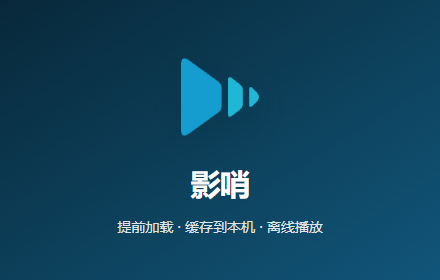
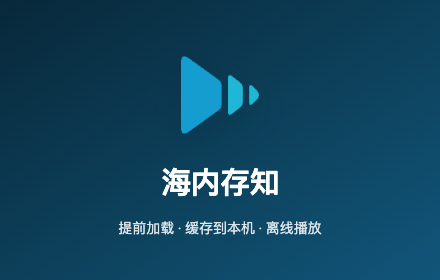
chore: rename app to haineicunzhi
改了什么: 扩展由「影哨」更名为「海内存知」。替换 manifest name/default_title、弹窗与离线页标题、隐私页、控制台日志前缀、徽标 fallback 标题、图标 SVG 内嵌标题、热更新启动文案、商店素材模板与重新生成的商店图、README（加题记「海内存知己，天涯若比邻」）、技术文档、store/listing 0.1 命名说明；npm 包名与发布产物改为 haineicunzhi(-<version>.zip)，发布校验与 store-compliance 坏样本同步；AGENTS.md 副本随父级权威副本重新生成（项目名、目录 bilibili-buffer-extension/、zip 命名）。版本 2.12.1 → 2.12.2。
为什么: 旧名的「哨」偏监控含义，与提前加载、片库都不贴切；新名取自「海内存知己」，断成「海（外）· 内存 · 知（己）」，同时点出海外用户与本机缓存。IndexedDB 库名、消息通道、storage 键、CSS 类名与 manifest key 均未改，片库与扩展 ID 不受影响；未新增权限。
验证: npm run check、npm test（223 通过）、npm run test:popup、npm run build（haineicunzhi-2.12.2.zip 发布包检查通过）；node tools/sync-agents.mjs --check 一致。

diff --git a/popup.html b/popup.html
@@ -3,7 +3,7 @@
   <head>
     <meta charset="utf-8">
     <meta name="viewport" content="width=device-width, initial-scale=1">
-    <title>影哨</title>
+    <title>海内存知</title>
     <link rel="stylesheet" href="popup.css">
   </head>
   <body>
@@ -11,9 +11,9 @@
       <header class="masthead">
         <div class="brand-lockup">
           <img class="brand-icon" src="assets/icon-48.png" alt="">
-          <!-- 副标题只做用途说明：主名影哨不含 bilibili 关键词，这里补上指名性描述。 -->
+          <!-- 副标题只做用途说明：主名海内存知不含 bilibili 关键词，这里补上指名性描述。 -->
           <div class="brand-title">
-            <h1>影哨</h1>
+            <h1>海内存知</h1>
             <p class="brand-subtitle">bilibili buffer</p>
           </div>
         </div>
@@ -156,7 +156,7 @@
             </div>
             <p id="browser-health-status" class="health-status" role="status" aria-live="polite" data-state="checking">正在检测…</p>
             <ul id="browser-health-list" class="health-list"></ul>
-            <p class="setting-note">插件图标点不动或弹窗打不开时，请到 <code>chrome://extensions</code> 确认「影哨」没有被停用。</p>
+            <p class="setting-note">插件图标点不动或弹窗打不开时，请到 <code>chrome://extensions</code> 确认「海内存知」没有被停用。</p>
           </section>
 
           <section class="settings-group" aria-labelledby="about-heading">

diff --git a/src/content.js b/src/content.js
@@ -73,7 +73,7 @@
       if (activePlayback?.videoId === response.video.id) return;
       await startCachedPlayback(response.video);
     } catch (error) {
-      console.warn("[影哨] 查询本地缓存失败", error);
+      console.warn("[海内存知] 查询本地缓存失败", error);
     }
   }
 
@@ -105,7 +105,7 @@
       applyPlaybackUrl(video, cache, URL.createObjectURL(blob));
     } catch (error) {
       document.documentElement.dataset.biliBufferPlayback = "error";
-      console.warn("[影哨] 本地缓存无法播放：", error);
+      console.warn("[海内存知] 本地缓存无法播放：", error);
     }
   }
 
@@ -200,13 +200,13 @@
       video.playbackRate = previous.rate;
       if (!previous.paused) video.play().catch(() => {});
       chrome.runtime.sendMessage({ target: "background", type: "PLAYBACK_ACTIVE" }).catch(() => {});
-      console.info(`[影哨] 已切换为本地缓存播放：${cache.title}`);
+      console.info(`[海内存知] 已切换为本地缓存播放：${cache.title}`);
     }, { once: true });
 
     video.addEventListener("error", () => {
       document.documentElement.dataset.biliBufferPlayback = "error";
       delete video.dataset.biliCachePlayback;
-      console.warn("[影哨] 本地缓存播放失败，页面刷新后将恢复网络播放");
+      console.warn("[海内存知] 本地缓存播放失败，页面刷新后将恢复网络播放");
     }, { once: true });
 
     activePlayback = { videoId: cache.id, objectUrl: playbackUrl, video };

diff --git a/src/offscreen.js b/src/offscreen.js
@@ -134,7 +134,7 @@ async function createPlaybackUrl(videoId) {
       try {
         video = await ensureMergedTracks(video);
       } catch (error) {
-        console.warn("[影哨] 合并本地双轨失败，回退到双轨播放：", error);
+        console.warn("[海内存知] 合并本地双轨失败，回退到双轨播放：", error);
         // 记下失败原因，避免每次播放都重复尝试；双轨缓存始终原样保留。
         video = { ...video, mergeStage: "failed", mergeError: toPublicError(error), updatedAt: Date.now() };
         await putVideo(video).catch(() => {});
@@ -1503,7 +1503,7 @@ async function mergeDownloadedTracks(meta, job) {
   } catch (error) {
     if (job?.deleted) return meta;
     const message = toPublicError(error);
-    console.warn("[影哨] 双轨合并失败，保留独立轨道：", error);
+    console.warn("[海内存知] 双轨合并失败，保留独立轨道：", error);
     const failed = {
       ...meta,
       status: "downloading",

diff --git a/privacy.html b/privacy.html
@@ -3,7 +3,7 @@
   <head>
     <meta charset="utf-8">
     <meta name="viewport" content="width=device-width, initial-scale=1">
-    <title>影哨 · 隐私说明 / Privacy Policy</title>
+    <title>海内存知 · 隐私说明 / Privacy Policy</title>
     <!--
       这个页面同时承担三个职责，修改时必须三者一起检查：
       1. Chrome Web Store 仪表盘里的“隐私权政策网址”（推荐用 GitHub Pages 指向本文件）；
@@ -70,7 +70,7 @@
             <path d="M22 84v3M74 84v3" fill="none" stroke="#176b87" stroke-width="7" stroke-linecap="round"/>
           </g>
         </svg>
-        <h1>影哨 · 隐私说明</h1>
+        <h1>海内存知 · 隐私说明</h1>
       </header>
       <p class="updated">最后更新：2026-09-16 · 适用于扩展版本 2.6.3 及以后</p>
 

diff --git a/src/background.js b/src/background.js
@@ -794,10 +794,10 @@ async function restoreActiveDownloadsNow() {
     for (const video of interrupted) {
       if (activeIds.has(video.id) || !isDownloadRetryDue(video)) continue;
       const result = await restartDownload(video, auth);
-      if (!result?.ok) console.warn("[影哨] 无法恢复上次的缓存任务：", result?.error);
+      if (!result?.ok) console.warn("[海内存知] 无法恢复上次的缓存任务：", result?.error);
     }
     await syncDownloadWatchdog();
   } catch (error) {
-    console.warn("[影哨] 无法恢复上次的缓存任务：", error);
+    console.warn("[海内存知] 无法恢复上次的缓存任务：", error);
   }
 }

diff --git a/src/task-presentation.js b/src/task-presentation.js
@@ -48,5 +48,5 @@ export function taskBadge(videos, tabId) {
   if (active.length === 1) return { text: String(Math.min(99, Math.floor(taskProgress(active[0]) * 100))), color: '#fb7299', title: `正在缓存：${active[0].partTitle || active[0].title || '视频'}` };
   if (tasks.some(video => video.status === 'error')) return { text: '!', color: '#8b5b64', title: '有缓存任务需要处理' };
   if (tasks.some(video => video.status === 'complete')) return { text: '✓', color: '#1682a7', title: '缓存已完成' };
-  return { text: '', color: '#1682a7', title: '影哨' };
+  return { text: '', color: '#1682a7', title: '海内存知' };
 }

diff --git a/popup.css b/popup.css
@@ -1,5 +1,5 @@
 /*
- * 影哨弹窗样式（2.12）：浅色「雾白」与深色「夜航」两套色板，跟随系统 prefers-color-scheme。
+ * 海内存知弹窗样式（2.12）：浅色「雾白」与深色「夜航」两套色板，跟随系统 prefers-color-scheme。
  * 组件只引用令牌，深色只重定义令牌，不在媒体查询里写组件颜色。
  * 层级靠间距、字重与少量状态色建立：B 站粉只给缓存主按钮，B 站蓝给选中、链接与进度；
  * 分隔一律用发丝线，不把每块内容都包成卡片（见 .impeccable.md）。

diff --git a/offscreen.html b/offscreen.html
@@ -2,7 +2,7 @@
 <html lang="zh-CN">
   <head>
     <meta charset="utf-8">
-    <title>影哨后台缓存</title>
+    <title>海内存知后台缓存</title>
   </head>
   <body>
     <script type="module" src="src/offscreen.js"></script>

diff --git a/store/listing.md b/store/listing.md
@@ -11,14 +11,14 @@
 
 ## 0. 必须先做的两个决定
 
-### 0.1 名称与商标（2.8.11 已更名）
+### 0.1 名称与商标（2.12.2 再次更名）
 
-当前名称为 **影哨**（原名「Bili 缓冲站」，2026-09-24 起更名）：影＝影片，哨＝在前方守望，对应「提前一格」的原创蓝青色图标，不含 Bili / B 站关键词，非官方身份最清晰。
+当前名称为 **海内存知**（2.12.2 起；此前 2.8.11–2.12.1 叫「影哨」，更早叫「Bili 缓冲站」）：取自「海内存知己，天涯若比邻」，断成「海（外）· 内存 · 知（己）」——面向海外用户、把视频提前存进本机内存的知己；下半句「天涯若比邻」正对应 CDN 远在天涯、数据已缓存到身边。不含 Bili / B 站关键词，非官方身份最清晰。
 商店政策 [Impersonation & Intellectual Property](https://developer.chrome.com/docs/webstore/program-policies/impersonation-and-intellectual-property) 第 1、5 条禁止暗示“获得对方授权或由对方出品”，第 6 条说明可能因此降低曝光。最终是否通过由商店审核决定。
 
 名称已同步 `manifest.json`、`popup.html`、`README.md`、隐私页与图标内嵌文案。由于名称不再含「bilibili / B 站」，搜索曝光依赖 **Summary 与详细描述**：两者已保留「B 站」指名性描述（说明适用于哪个网站，不暗示授权），详情页首段的非官方免责声明必须保留。
 
-历史决策记录（更名前评估的三种方案）：A `缓冲站 · B 站视频缓存助手`（低风险）；B 保持 `Bili 缓冲站`（中风险，需显著免责声明）；C `缓冲站 · 网页视频离线缓存`（最低风险但曝光差）。最终采用了第四条路——独创名「影哨」，规避商标问题后用描述字段补兼容性关键词。
+历史决策记录（更名前评估的三种方案）：A `缓冲站 · B 站视频缓存助手`（低风险）；B 保持 `Bili 缓冲站`（中风险，需显著免责声明）；C `缓冲站 · 网页视频离线缓存`（最低风险但曝光差）。最终采用了第四条路——独创名（先「影哨」，2.12.2 改为「海内存知」：「哨」偏监控含义，与提前加载、片库都不贴切），规避商标问题后用描述字段补兼容性关键词。
 
 ### 0.2 隐私政策网址
 
@@ -36,7 +36,7 @@
 
 | 字段 | 填写内容 |
 | --- | --- |
-| **Item name** | `影哨`（2 字，上限 75 字；更名背景见 0.1） |
+| **Item name** | `海内存知`（4 字，上限 75 字；更名背景见 0.1） |
 | **Summary** | 与 `manifest.json` 的 `description` 完全一致，见下方 |
 | **Category** | `Productivity` |
 | **Language** | `Chinese (Simplified)` |
@@ -50,7 +50,7 @@
 ### Detailed description
 
 ```
-影哨把 B 站视频提前缓存到本机，之后可以离线播放或另存为文件。它只在你点击按钮或打开开关后工作，不修改网页内容，也没有服务器。
+海内存知把 B 站视频提前缓存到本机，之后可以离线播放或另存为文件。它只在你点击按钮或打开开关后工作，不修改网页内容，也没有服务器。
 
 【播放提前加载】
 · 取得播放器首个媒体范围后立即预热：先补初始化区与分段索引，再按当前播放位置挑选前方分段。

diff --git a/AGENTS.md b/AGENTS.md
@@ -6,7 +6,7 @@
 ## 作用域
 
 - 适用对象：本目录下所有 Chrome 扩展（Manifest V3）。
-- `影哨/`：仓库根即扩展根（2026-09-24 由 `bilibili缓冲插件` 更名；旧路径是指向新路径的兼容符号链接）。
+- `bilibili-buffer-extension/`：扩展「海内存知」（2026-10-24 由「影哨」更名），仓库根即扩展根。
 - `b站延拓/extension/`：仅扩展部分适用本文件；`b站延拓/` 根目录是 Python 项目，遵循它自己的约定。
 - 提交发生在各子仓库内（本目录本身不是 git 仓库）。修改本文件后需 `/reload` 或重启 pi 才会重新加载。
 - 本文件是**权威副本**：`node tools/sync-agents.mjs` 生成各仓库内的副本（带「勿手改」头部标记），`node tools/sync-agents.mjs --check` 校验是否漂移。改完本文件务必同步一次。
@@ -15,7 +15,7 @@
 
 | 项目 | 扩展根 | 构建 | 热重载 | 测试 | 提交前校验 |
 | --- | --- | --- | --- | --- | --- |
-| 影哨 | 仓库根 | `npm run build` | `npm run dev` | `npm test` | `npm run check` |
+| 海内存知 | 仓库根 | `npm run build` | `npm run dev` | `npm test` | `npm run check` |
 | b站延拓 | `extension/` | `npm run build`（在 `extension/` 内执行） | `npm run dev`（`-- --once` 单次、`-- --smoke` 自检） | `npm test` | `npm run verify` |
 
 ---
@@ -48,7 +48,7 @@
 
 - 每个扩展项目都必须提供 `npm run dev`：watch 源码 → 重新构建 → **自动重载已加载的扩展**，不需要手动点 `chrome://extensions` 的“重新加载”。
 - 优先复用本目录已有的两套参考实现（去品牌化的通用版本见 `templates/hot-reload/`，含选型对照、接入清单与验收方式），不要另造轮子：
-  - `影哨/scripts/dev-reload-server.mjs` + `src/dev-reload.js`：本地 HTTP `/health` 暴露 `revision`，扩展侧轮询到变化后调用 `chrome.runtime.reload()`。
+  - `bilibili-buffer-extension/scripts/dev-reload-server.mjs` + `src/dev-reload.js`：本地 HTTP `/health` 暴露 `revision`，扩展侧轮询到变化后调用 `chrome.runtime.reload()`。
   - `b站延拓/extension/scripts/dev.mjs`：Playwright 专用 dev profile（`.tmp/dev-profile`）+ CDP，重建后从扩展页面触发 `chrome.runtime.reload()`，并用 bundle 哈希**校验重载真的生效**。
 - 硬性要求：
   - **重载后必须验证生效**（哈希对比或等效证据）；静默失败视为未完成，不能只打印“已重载”。
@@ -74,7 +74,7 @@
 
 - 版本号单一来源：`manifest.json` 与 `package.json` 保持一致，改版本要同步 README / 变更记录。
 - 每次发布前更新变更记录（`开发日志.md` / `README.md` 中的对应章节），让别人知道这一版改了什么。
-- 发布产物命名带版本号（沿用 `yingsao-<version>.zip` 的做法），并保证 `dist/unpacked/` 与 zip 内容一致。
+- 发布产物命名带版本号（沿用 `haineicunzhi-<version>.zip` 的做法），并保证 `dist/unpacked/` 与 zip 内容一致。
 - Store 就绪清单：16/32/48/128 图标齐全、描述长度符合限制、`minimum_chrome_version` 合理、隐私说明与实际数据行为一致、无未使用的权限。
 
 ## 6. 测试分层

diff --git a/开发日志.md b/开发日志.md
@@ -1,4 +1,4 @@
-# 影哨
+# 海内存知
 
 ## 本轮改动总览（2.8.13 → 2.10.0，2026-10-22）
 
@@ -16,6 +16,15 @@
 **验证方式**：每项修复先写能复现问题的测试；全程以 `node scripts/run-tests.mjs`（最终 221 例）和 `node scripts/test-chrome.mjs`（Chrome for Testing 155 上四个浏览器套件）为准。在线加速另用受控网络模型对比（2 MiB 急需请求 6.9 s → 2.1 s，后台填充 0.3 → 1.8 MB/s），这是模型而非实网测速。2.10.0 已在用户的真实 Chrome 中实测通过。
 
 **仍未处理**：每个播放器请求仍先等一次离线复用查询（最多 1.5 秒）；`offscreen.js` 约 135 行死代码（`fetchDashTrackAndStore` / `fetchDashTrackCandidate`）；本地命中是否会推高 B 站自动画质尚未验证；`popup.js`、`mp4-merge.js` 未做审查。
+
+## 2.12.2 · 更名为「海内存知」
+
+- **名称**：「影哨」更名为**海内存知**。取自「海内存知己，天涯若比邻」，断成「海（外）· 内存 · 知（己）」：面向海外用户、把视频提前存进本机内存；下半句「天涯若比邻」对应 CDN 远在天涯、数据已缓存到身边，用作 README 题记。旧名的「哨」偏监控含义，与提前加载和片库都不贴切。仍不含 Bili / B 站关键词，商标考量与 2.8.11 一致。
+- **替换范围**：沿用 2.8.11 的清单——manifest `name` 与 `default_title`、弹窗标题与页身、离线页标题、隐私页、商店资料（listing 0.1 改写命名说明）、控制台日志前缀（`[海内存知]`）、工具栏徽标 fallback 标题、图标 SVG 内嵌 `<title>`、热更新服务启动文案、商店素材生成模板、技术文档。
+- **仓库与产物**：npm 包名 → `haineicunzhi`，发布产物 → `dist/haineicunzhi-<version>.zip`（发布校验与 store-compliance 坏样本同步）；Windows UNC 下 Chrome for Testing 缓存目录随之改为 `%LOCALAPPDATA%\haineicunzhi\cft-cache`，首次运行会重新下载。父级 AGENTS.md 的项目名、目录（`bilibili-buffer-extension/`）与 sync-agents 目标同步。
+- **刻意不变**：与 2.8.11 相同（IndexedDB 库名、消息通道、storage 键、CSS 变量与类名、manifest `key`），片库与扩展 ID 不受影响；仓库目录与 GitHub slug 不改；历史日志条目保留旧名。
+- 未新增权限；版本 2.12.1 → 2.12.2。
+- 验证：npm run check、npm test、npm run test:popup、npm run build（产物 `haineicunzhi-2.12.2.zip`）。
 
 ## 2.12.1 · 修复视频信息请求被 B 站 412 拦截
 
